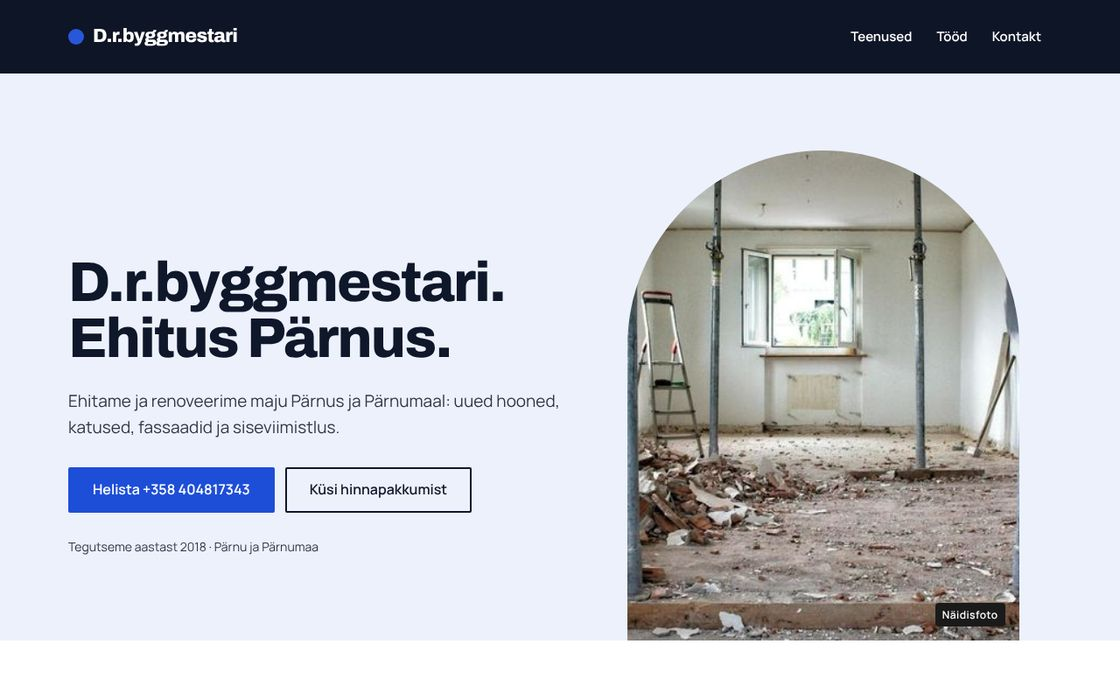
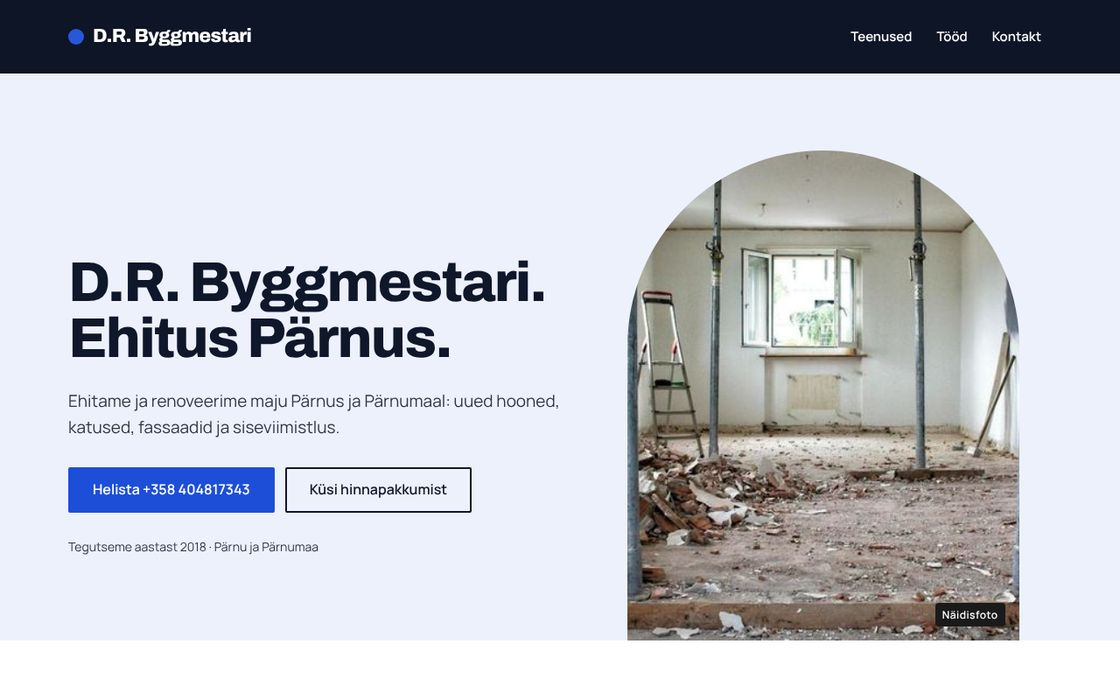
Kaks firmanime korda
Claude-Session: https://claude.ai/code/session_015sYvgzKeM8g4wpzGxo2jki

Changed region(s): [[0.0938, 0.36, 0.5, 0.45], [0.0938, 0.03, 0.2188, 0.09]]

diff --git a/public/d-r-byggmestari/index.html b/public/d-r-byggmestari/index.html
@@ -4,7 +4,7 @@
 <meta charset="utf-8">
 <meta name="viewport" content="width=device-width, initial-scale=1">
 <meta name="robots" content="noindex, nofollow">
-<title>D.r.byggmestari – ehitus Pärnus</title>
+<title>D.R. Byggmestari – ehitus Pärnus</title>
 <meta name="description" content="OÜ D.R.BYGGMESTARI: ehitustööd, renoveerimine, katus ja fassaad. Tööpiirkond Pärnu ja Pärnumaa.">
 <meta name="theme-color" content="#EDF1FC">
 <link rel="icon" href="data:,">
@@ -20,13 +20,13 @@
 </div>
 <header class="pais pais-tume">
   <div class="wrap">
-    <a class="logo" href="#algus"><span class="logo-mark" aria-hidden="true"></span>D.r.byggmestari</a>
+    <a class="logo" href="#algus"><span class="logo-mark" aria-hidden="true"></span>D.R. Byggmestari</a>
     <nav class="menuu" aria-label="Peamenüü"><a href="#teenused">Teenused</a><a href="#tood">Tööd</a><a href="#kontakt">Kontakt</a></nav>
   </div>
 </header>
 <main id="algus">
 <section class="h-fkaar" aria-labelledby="pk">
-  <div class="wrap h-fkaar-sisu"><div><h1 id="pk">D.r.byggmestari. Ehitus Pärnus.</h1><p class="lead">Ehitame ja renoveerime maju Pärnus ja Pärnumaal: uued hooned, katused, fassaadid ja siseviimistlus.</p><div class="nupud"><a class="nupp pea" href="tel:+358404817343">Helista +358 404817343</a><a class="nupp teine" href="#kontakt">Küsi hinnapakkumist</a></div><p class="aasta-rida">Tegutseme aastast 2018 · Pärnu ja Pärnumaa</p></div><div class="h-fkaar-foto"><img class="" src="/fotod/ehitus-tuba.jpg" srcset="/fotod/ehitus-tuba-800.jpg 800w, /fotod/ehitus-tuba.jpg 1387w" sizes="(max-width: 800px) 100vw, 60vw" width="1387" height="774" alt="" decoding="async"><span class="h-fkaar-silt">Näidisfoto</span></div></div>
+  <div class="wrap h-fkaar-sisu"><div><h1 id="pk">D.R. Byggmestari. Ehitus Pärnus.</h1><p class="lead">Ehitame ja renoveerime maju Pärnus ja Pärnumaal: uued hooned, katused, fassaadid ja siseviimistlus.</p><div class="nupud"><a class="nupp pea" href="tel:+358404817343">Helista +358 404817343</a><a class="nupp teine" href="#kontakt">Küsi hinnapakkumist</a></div><p class="aasta-rida">Tegutseme aastast 2018 · Pärnu ja Pärnumaa</p></div><div class="h-fkaar-foto"><img class="" src="/fotod/ehitus-tuba.jpg" srcset="/fotod/ehitus-tuba-800.jpg 800w, /fotod/ehitus-tuba.jpg 1387w" sizes="(max-width: 800px) 100vw, 60vw" width="1387" height="774" alt="" decoding="async"><span class="h-fkaar-silt">Näidisfoto</span></div></div>
 </section>
 <section id="teenused" class="plokk sek-teenused" aria-labelledby="teenused-pk">
   <div class="wrap">
@@ -65,7 +65,7 @@
 </section>
 <section class="plokk sek-faktid" aria-labelledby="faktid-pk">
   <div class="wrap">
-    <h2 id="faktid-pk">D.r.byggmestari lühidalt</h2>
+    <h2 id="faktid-pk">D.R. Byggmestari lühidalt</h2>
     <dl class="faktid"><div><dt>2018</dt><dd>asutamise aasta</dd></div>
 <div><dt>6</dt><dd>inimest meeskonnas</dd></div>
 <div><dt>Pärnu ja Pärnumaa</dt><dd>tööpiirkond</dd></div></dl>

diff --git a/public/s-t-i-grupp/teenused.html b/public/s-t-i-grupp/teenused.html
@@ -4,8 +4,8 @@
 <meta charset="utf-8">
 <meta name="viewport" content="width=device-width, initial-scale=1">
 <meta name="robots" content="noindex, nofollow">
-<title>Teenused – S.t.i. Grupp</title>
-<meta name="description" content="S.t.i. Grupp teenused: ehitustööd, renoveerimine, katus ja fassaad, siseviimistlus.">
+<title>Teenused – S.T.I. Grupp</title>
+<meta name="description" content="S.T.I. Grupp teenused: ehitustööd, renoveerimine, katus ja fassaad, siseviimistlus.">
 <meta name="theme-color" content="#593604">
 <link rel="icon" href="data:,">
 <link rel="stylesheet" href="stiil.css">
@@ -20,12 +20,12 @@
 </div>
 <header class="pais pais-varv">
   <div class="wrap">
-    <a class="logo" href="./"><span class="logo-mark" aria-hidden="true"></span>S.t.i. Grupp</a>
+    <a class="logo" href="./"><span class="logo-mark" aria-hidden="true"></span>S.T.I. Grupp</a>
     <nav class="menuu" aria-label="Peamenüü"><a href="./">Avaleht</a><a href="teenused" aria-current="page">Teenused</a><a href="tood">Tööd</a><a href="kontakt">Kontakt</a></nav>
   </div>
 </header>
 <main>
-<div class="lehe-pais"><div class="wrap"><h1>Teenused</h1><p>S.t.i. Grupp ehitab ja renoveerib Jõgevamaal. Võid tellida kogu töö või ainult ühe etapi.</p></div></div>
+<div class="lehe-pais"><div class="wrap"><h1>Teenused</h1><p>S.T.I. Grupp ehitab ja renoveerib Jõgevamaal. Võid tellida kogu töö või ainult ühe etapi.</p></div></div>
 <div class="wrap"><article class="teenus-pikk" id="t1"><h2>Ehitustööd</h2><div><p>Ehitame eramaju, abihooneid ja väiksemaid ärihooneid vundamendist katuseni. Enne tööd vaatame üle projekti ja lepime kokku, mis etapid teeme meie.</p><a class="nupp teine" href="kontakt">Küsi pakkumist</a></div></article>
 <article class="teenus-pikk" id="t2"><h2>Renoveerimine</h2><div><p>Uuendame vanu maju ja kortereid: vaheseinad, põrandad, laed ja viimistlus. Enne lammutamist vaatame üle, mida saab alles jätta.</p><a class="nupp teine" href="kontakt">Küsi pakkumist</a></div></article>
 <article class="teenus-pikk" id="t3"><h2>Katus ja fassaad</h2><div><p>Vahetame katuseid, soojustame ja teeme fassaaditöid. Töö käigus kontrollime, et konstruktsioon all oleks korras.</p><a class="nupp teine" href="kontakt">Küsi pakkumist</a></div></article>

diff --git a/public/s-t-i-grupp/index.html b/public/s-t-i-grupp/index.html
@@ -4,7 +4,7 @@
 <meta charset="utf-8">
 <meta name="viewport" content="width=device-width, initial-scale=1">
 <meta name="robots" content="noindex, nofollow">
-<title>S.t.i. Grupp – ehitus Jõgevamaal</title>
+<title>S.T.I. Grupp – ehitus Jõgevamaal</title>
 <meta name="description" content="OÜ S.T.I. GRUPP: ehitustööd, renoveerimine, katus ja fassaad. Tööpiirkond Jõgevamaa.">
 <meta name="theme-color" content="#593604">
 <link rel="icon" href="data:,">
@@ -20,7 +20,7 @@
 </div>
 <header class="pais pais-varv">
   <div class="wrap">
-    <a class="logo" href="./"><span class="logo-mark" aria-hidden="true"></span>S.t.i. Grupp</a>
+    <a class="logo" href="./"><span class="logo-mark" aria-hidden="true"></span>S.T.I. Grupp</a>
     <nav class="menuu" aria-label="Peamenüü"><a href="./" aria-current="page">Avaleht</a><a href="teenused">Teenused</a><a href="tood">Tööd</a><a href="kontakt">Kontakt</a></nav>
   </div>
 </header>
@@ -63,7 +63,7 @@
 </section>
 <section class="plokk sek-faktid" aria-labelledby="faktid-pk">
   <div class="wrap">
-    <h2 id="faktid-pk">S.t.i. Grupp lühidalt</h2>
+    <h2 id="faktid-pk">S.T.I. Grupp lühidalt</h2>
     <dl class="faktid"><div><dt>2007</dt><dd>asutamise aasta</dd></div>
 <div><dt>6</dt><dd>inimest meeskonnas</dd></div>
 <div><dt>Jõgevamaa</dt><dd>tööpiirkond</dd></div></dl>

diff --git a/public/s-t-i-grupp/tood.html b/public/s-t-i-grupp/tood.html
@@ -4,8 +4,8 @@
 <meta charset="utf-8">
 <meta name="viewport" content="width=device-width, initial-scale=1">
 <meta name="robots" content="noindex, nofollow">
-<title>Tehtud tööd – S.t.i. Grupp</title>
-<meta name="description" content="S.t.i. Grupp tehtud tööd Jõgevamaal.">
+<title>Tehtud tööd – S.T.I. Grupp</title>
+<meta name="description" content="S.T.I. Grupp tehtud tööd Jõgevamaal.">
 <meta name="theme-color" content="#593604">
 <link rel="icon" href="data:,">
 <link rel="stylesheet" href="stiil.css">
@@ -20,7 +20,7 @@
 </div>
 <header class="pais pais-varv">
   <div class="wrap">
-    <a class="logo" href="./"><span class="logo-mark" aria-hidden="true"></span>S.t.i. Grupp</a>
+    <a class="logo" href="./"><span class="logo-mark" aria-hidden="true"></span>S.T.I. Grupp</a>
     <nav class="menuu" aria-label="Peamenüü"><a href="./">Avaleht</a><a href="teenused">Teenused</a><a href="tood" aria-current="page">Tööd</a><a href="kontakt">Kontakt</a></nav>
   </div>
 </header>

diff --git a/public/s-t-i-grupp/kontakt.html b/public/s-t-i-grupp/kontakt.html
@@ -4,8 +4,8 @@
 <meta charset="utf-8">
 <meta name="viewport" content="width=device-width, initial-scale=1">
 <meta name="robots" content="noindex, nofollow">
-<title>Kontakt – S.t.i. Grupp</title>
-<meta name="description" content="S.t.i. Grupp kontaktid ja hinnapäring.">
+<title>Kontakt – S.T.I. Grupp</title>
+<meta name="description" content="S.T.I. Grupp kontaktid ja hinnapäring.">
 <meta name="theme-color" content="#593604">
 <link rel="icon" href="data:,">
 <link rel="stylesheet" href="stiil.css">
@@ -20,7 +20,7 @@
 </div>
 <header class="pais pais-varv">
   <div class="wrap">
-    <a class="logo" href="./"><span class="logo-mark" aria-hidden="true"></span>S.t.i. Grupp</a>
+    <a class="logo" href="./"><span class="logo-mark" aria-hidden="true"></span>S.T.I. Grupp</a>
     <nav class="menuu" aria-label="Peamenüü"><a href="./">Avaleht</a><a href="teenused">Teenused</a><a href="tood">Tööd</a><a href="kontakt" aria-current="page">Kontakt</a></nav>
   </div>
 </header>

diff --git a/public/s-t-i-grupp/privaatsus.html b/public/s-t-i-grupp/privaatsus.html
@@ -4,8 +4,8 @@
 <meta charset="utf-8">
 <meta name="viewport" content="width=device-width, initial-scale=1">
 <meta name="robots" content="noindex, nofollow">
-<title>Privaatsus – S.t.i. Grupp</title>
-<meta name="description" content="S.t.i. Grupp privaatsuspõhimõtted.">
+<title>Privaatsus – S.T.I. Grupp</title>
+<meta name="description" content="S.T.I. Grupp privaatsuspõhimõtted.">
 <meta name="theme-color" content="#593604">
 <link rel="icon" href="data:,">
 <link rel="stylesheet" href="stiil.css">
@@ -20,7 +20,7 @@
 </div>
 <header class="pais pais-varv">
   <div class="wrap">
-    <a class="logo" href="./"><span class="logo-mark" aria-hidden="true"></span>S.t.i. Grupp</a>
+    <a class="logo" href="./"><span class="logo-mark" aria-hidden="true"></span>S.T.I. Grupp</a>
     <nav class="menuu" aria-label="Peamenüü"><a href="./">Avaleht</a><a href="teenused">Teenused</a><a href="tood">Tööd</a><a href="kontakt">Kontakt</a></nav>
   </div>
 </header>

diff --git a/public/d-r-byggmestari/privaatsus.html b/public/d-r-byggmestari/privaatsus.html
@@ -4,8 +4,8 @@
 <meta charset="utf-8">
 <meta name="viewport" content="width=device-width, initial-scale=1">
 <meta name="robots" content="noindex, nofollow">
-<title>Privaatsus – D.r.byggmestari</title>
-<meta name="description" content="D.r.byggmestari privaatsuspõhimõtted.">
+<title>Privaatsus – D.R. Byggmestari</title>
+<meta name="description" content="D.R. Byggmestari privaatsuspõhimõtted.">
 <meta name="theme-color" content="#EDF1FC">
 <link rel="icon" href="data:,">
 <link rel="stylesheet" href="stiil.css">
@@ -20,7 +20,7 @@
 </div>
 <header class="pais pais-tume">
   <div class="wrap">
-    <a class="logo" href="./"><span class="logo-mark" aria-hidden="true"></span>D.r.byggmestari</a>
+    <a class="logo" href="./"><span class="logo-mark" aria-hidden="true"></span>D.R. Byggmestari</a>
     <nav class="menuu" aria-label="Peamenüü"><a href="./">Avaleht</a></nav>
   </div>
 </header>

diff --git a/tooriistad/kujundused_foto.py b/tooriistad/kujundused_foto.py
@@ -1514,7 +1514,7 @@ FOTOLEHED = [
 "f-d-r-byggmestari",
 "ehitus",
 "kaar",
-"D.r.byggmestari. Ehitus Pärnus.",
+"D.R. Byggmestari. Ehitus Pärnus.",
 179
 ],
 [
